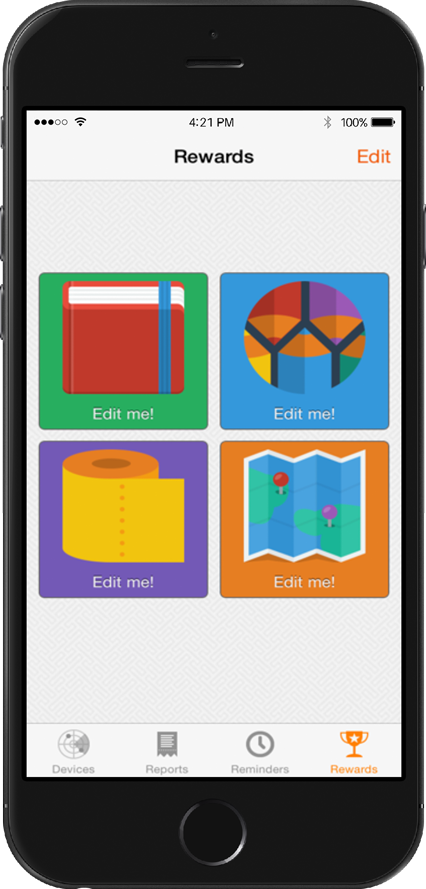
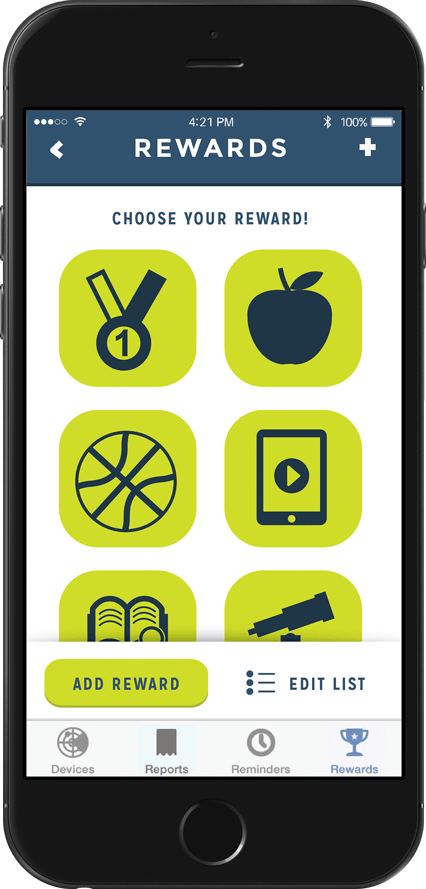
Fixed links and updated product images
made links relative and updated report.png and rewards.png

diff --git a/index.html b/index.html
@@ -1,6 +1,6 @@
 <!DOCTYPE html>
 <!-- This site was created in Webflow. http://www.webflow.com-->
-<!-- Last Published: Tue Nov 24 2015 18:23:51 GMT+0000 (UTC) -->
+<!-- Last Published: Sat Nov 28 2015 20:44:40 GMT+0000 (UTC) -->
 <html data-wf-site="55770fdde695c0d36564fbf2" data-wf-page="55770fdde695c0d36564fbf4">
 <head>
   <meta charset="utf-8">
@@ -120,7 +120,7 @@ is Our Solution</h2>
         <div class="section-subheading center">designed to change well-established routines&nbsp;</div>
       </div>
       <p class="short">The TrainSmart toilet training kit consists of disposable pads with moisture-detecting sensors and a Bluetooth transmitter that snaps to the pad and connects to the mobile app. Upon a wetting event, parents and caregivers receive an audio alert triggering our intervention methodologies.</p>
-      <div class="showcase"><img src="images/TrainSmart.PNG" class="trainsmart"><img width="450" src="images/Guidebook.png" data-ix="fade-in-left-scroll-in" class="book"><img width="200" src="images/pad.png" data-ix="bounce-in-scroll-in" class="pad"><img width="200" src="images/transmitter.png" data-ix="bounce-in-2-scroll-in" class="transmitter"><img width="200" src="images/phone.png" data-ix="fade-in-right-scroll-in" class="phone">
+      <div class="showcase"><img src="images/TrainSmart.PNG" class="trainsmart"><img alt="Photo of Guidebook" width="450" src="images/Guidebook.png" data-ix="fade-in-left-scroll-in" class="book"><img alt="Photo of diaper pad" width="200" src="images/pad.png" data-ix="bounce-in-scroll-in" class="pad"><img alt="Photo of Bluetooth transmitter" width="200" src="images/transmitter.png" data-ix="bounce-in-2-scroll-in" class="transmitter"><img alt="Photo of phone with app" width="200" src="images/phone.png" data-ix="fade-in-right-scroll-in" class="phone">
       </div>
     </div>
   </div>
@@ -133,9 +133,9 @@ Intervention</h2>
       </div>
       <p class="short">The adult quickly brings the child to the toilet. Upon successful toilet use the TrainSmart app presents a rewards menu (a snack, hearing a favorite song, etc.) for the child to choose from. This creates a new, successful toileting routine for the child with a positive brain connection.</p>
       <div class="w-row">
-        <div data-ix="fade-in-left-scroll-in" class="w-col w-col-6 notification"><img src="images/notification.png">
+        <div data-ix="fade-in-left-scroll-in" class="w-col w-col-6 notification"><img alt="Get an alert when an accident is happening with tip on how to encourage good behavior" src="images/notification.png">
         </div>
-        <div data-ix="fade-in-left-scroll-in-2" class="w-col w-col-6 rewards"><img src="images/rewards.png" class="rewardsp">
+        <div data-ix="fade-in-left-scroll-in-2" class="w-col w-col-6 rewards"><img alt="Rewards menu lets kids choose what they want" src="images/Rewards.png" class="rewardsp">
         </div>
       </div>
     </div>
@@ -148,7 +148,7 @@ Intervention</h2>
         <div class="section-subheading center">to prevent accidents</div>
       </div>
       <p class="short">The application creates a timestamp for each wetting event and generates a shareable log of the child’s wetting patterns, so parents can potentially pre-empt the next wetting event. Further, an alert setting can be used to remind parents to ask their child if they have to go to the bathroom.</p>
-      <div data-ix="fade-in-left-scroll-in" class="showcase report"><img src="images/Report.png" class="reportp">
+      <div data-ix="fade-in-left-scroll-in" class="showcase report"><img alt="See a chronological report of accidents and success" src="images/Report.png" class="reportp">
       </div>
     </div>
   </div>
@@ -159,7 +159,7 @@ Intervention</h2>
         <div class="section-subheading center">taking you from A to Z</div>
       </div>
       <p class="short">The TrainSmart Interventionist’s Guidebook not only teaches you how to create a winning training routine, but how to fade the use of TrainSmart. It will guide you in the selection of powerful rewards, tell you how to respond when your child does NOT use the toilet, and answer your questions about the habit training. After a habit is formed, it will guide you in fading the use of TrainSmart, so that your child becomes an independent toilet user. Your&nbsp;child will become sensitive to his or her body’s cues and able to use a toilet regardless of the setting.</p>
-      <div class="showcase guide"><img src="images/GuideBookOpen.jpg" data-ix="fade-in-left-scroll-in">
+      <div class="showcase guide"><img alt="Confer with the guidebook to learn how to teach toilet use" src="images/GuideBookOpen.jpg" data-ix="fade-in-left-scroll-in">
       </div>
     </div>
   </div>
@@ -253,53 +253,6 @@ Intervention</h2>
       </div>
     </div>
   </div>
-  <div class="w-section section no-shon">
-    <div class="w-container">
-      <div class="section-title-group">
-        <h2 class="section-heading centered">testimonials</h2>
-        <div class="section-subheading center">This is some text inside of a div block.</div>
-      </div>
-      <div data-duration-in="300" data-duration-out="100" class="w-tabs tabs-wrapper">
-        <div class="w-tab-menu tab-menu">
-          <a data-w-tab="Tab 1" class="w-tab-link w--current w-inline-block button tab">
-            <div>Tab Button 1</div>
-          </a>
-          <a data-w-tab="Tab 2" class="w-tab-link w-inline-block button tab">
-            <div>Tab Button 2</div>
-          </a>
-          <a data-w-tab="Tab 3" class="w-tab-link w-inline-block button tab">
-            <div>Tab Button 3</div>
-          </a>
-        </div>
-        <div class="w-tab-content">
-          <div data-w-tab="Tab 1" class="w-tab-pane w--tab-active">
-            <div><img src="images/photo-1422222948315-28aadb7a2cb8.jpg" class="fullwidth-image">
-              <h2>Some Title Here</h2>
-              <p>Lorem ipsum dolor sit amet, consectetur adipiscing elit. Suspendisse varius enim in eros elementum tristique.
-                <br>Duis cursus, mi quis viverra ornare, eros dolor interdum nulla, ut commodo diam libero vitae erat.
-                <br>Aenean faucibus nibh et justo cursus id rutrum lorem imperdiet. Nunc ut sem vitae risus tristique posuere.</p>
-            </div>
-          </div>
-          <div data-w-tab="Tab 2" class="w-tab-pane">
-            <div><img src="images/5fcb0a55.jpg" class="fullwidth-image">
-              <h2>Heading</h2>
-              <p>Lorem ipsum dolor sit amet, consectetur adipiscing elit. Suspendisse varius enim in eros elementum tristique.
-                <br>Duis cursus, mi quis viverra ornare, eros dolor interdum nulla, ut commodo diam libero vitae erat.
-                <br>Aenean faucibus nibh et justo cursus id rutrum lorem imperdiet. Nunc ut sem vitae risus tristique posuere.</p>
-            </div>
-          </div>
-          <div data-w-tab="Tab 3" class="w-tab-pane">
-            <div><img src="images/5cf8b62b.jpg" class="fullwidth-image">
-              <h2>Heading</h2>
-            </div>
-            <p>Lorem ipsum dolor sit amet, consectetur adipiscing elit. Suspendisse varius enim in eros elementum tristique.
-              <br>Duis cursus, mi quis viverra ornare, eros dolor interdum nulla, ut commodo diam libero vitae erat.
-              <br>Aenean faucibus nibh et justo cursus id rutrum lorem imperdiet. Nunc ut sem vitae risus tristique posuere.</p>
-          </div>
-        </div>
-      </div>
-    </div>
-  </div>
   <div id="Testimonials" class="w-section section">
     <div class="w-container">
       <div class="section-title-group">
@@ -351,7 +304,7 @@ disabilities</h6>
           </div>
           <div class="subhero email-us">SUGGESTIONS? FEEDBACK? IDEAS?</div><a href="#" class="hollow-button email-us">Email Us hello@trainsmart.biz</a>
         </div>
-        <div class="w-col w-col-3"><img src="images/phone.png" data-ix="fade-in-right-scroll-in" class="end">
+        <div class="w-col w-col-3"><img alt="Learn more today!" src="images/phone.png" data-ix="fade-in-right-scroll-in" class="end">
         </div>
       </div>
     </div>
@@ -364,7 +317,7 @@ disabilities</h6>
           <p class="about-footer">We are an innovative biotech initiative that focuses on commercializing new toilet-training technologies and methodologies for children with developmental disabilities.&nbsp; Our product has been successfully tested and has received significant Public and Private sector support. Our technology was developed and tested at the University of Rochester through grants funded by Autism Speaks and the NIH.</p>
         </div>
         <div class="w-col w-col-4 spc">
-          <h5>useful links</h5><a href="http://trainsmart.webflow.io/#Newsletter" class="footer-link">Newsletter</a><a href="http://trainsmart.webflow.io/#Testimonials" class="footer-link">Testimonials</a><a href="http://trainsmart.webflow.io/#Solution" class="footer-link">Toilet Training System</a><a href="http://trainsmart.webflow.io/#Uses" class="footer-link">Use Cases</a><a href="about.html" class="footer-link">Contact Us</a>
+          <h5>useful links</h5><a href="#Newsletter" class="footer-link">Newsletter</a><a href="#Testimonials" class="footer-link">Testimonials</a><a href="#Solution" class="footer-link">Toilet Training System</a><a href="#Uses" class="footer-link">Use Cases</a><a href="about.html" class="footer-link">Contact Us</a>
         </div>
         <div class="w-col w-col-4">
           <h5>social</h5>

diff --git a/about.html b/about.html
@@ -1,6 +1,6 @@
 <!DOCTYPE html>
 <!-- This site was created in Webflow. http://www.webflow.com-->
-<!-- Last Published: Tue Nov 24 2015 18:23:51 GMT+0000 (UTC) -->
+<!-- Last Published: Sat Nov 28 2015 20:44:39 GMT+0000 (UTC) -->
 <html data-wf-site="55770fdde695c0d36564fbf2" data-wf-page="55770fdde695c0d36564fbf5">
 <head>
   <meta charset="utf-8">
@@ -144,7 +144,7 @@
           <p class="about-footer">We are an innovative biotech initiative that focuses on commercializing new toilet-training technologies and methodologies for children with developmental disabilities.&nbsp; Our product has been successfully tested and has received significant Public and Private sector support. Our technology was developed and tested at the University of Rochester through grants funded by Autism Speaks and the NIH.</p>
         </div>
         <div class="w-col w-col-4 spc">
-          <h5>useful links</h5><a href="#" class="footer-link">Newsletter</a><a href="#" class="footer-link">Testimonials</a><a href="http://trainsmart.webflow.io/#Solution" class="footer-link">Toilet Training System</a><a href="#" class="footer-link">Uses Cases</a><a href="about.html" class="footer-link">Contact Us</a>
+          <h5>useful links</h5><a href="index.html#Newsletter" class="footer-link">Newsletter</a><a href="index.html#Testimonials" class="footer-link">Testimonials</a><a href="index.html#Solution" class="footer-link">Toilet Training System</a><a href="index.html#Uses" class="footer-link">Uses Cases</a><a href="about.html" class="footer-link">Contact Us</a>
         </div>
         <div class="w-col w-col-4">
           <h5>social</h5>

diff --git a/css/trainsmart.webflow.css b/css/trainsmart.webflow.css
@@ -181,7 +181,9 @@ p {
 }
 
 .navigation-bar.sticky {
-  border-bottom: 4px solid #2e9dff;
+  border-color: #69b9ff #2e9dff #2e9dff;
+  border-bottom-style: solid;
+  border-bottom-width: 4px;
 }
 
 .navigation-menu {
@@ -293,7 +295,9 @@ p {
 .hero-section.centered {
   padding-top: 130px;
   padding-bottom: 130px;
-  border-bottom: 4px solid #69b9ff;
+  border-color: #69b9ff;
+  border-bottom-style: solid;
+  border-bottom-width: 4px;
   background-image: -webkit-linear-gradient(rgba(46, 157, 255, 0.49), rgba(46, 157, 255, 0.2)), url('../images/photo-1416359658663-73a3834895eb.jpg');
   background-image: linear-gradient(rgba(46, 157, 255, 0.49), rgba(46, 157, 255, 0.2)), url('../images/photo-1416359658663-73a3834895eb.jpg');
   background-position: 0% 0%, 50% 50%;
